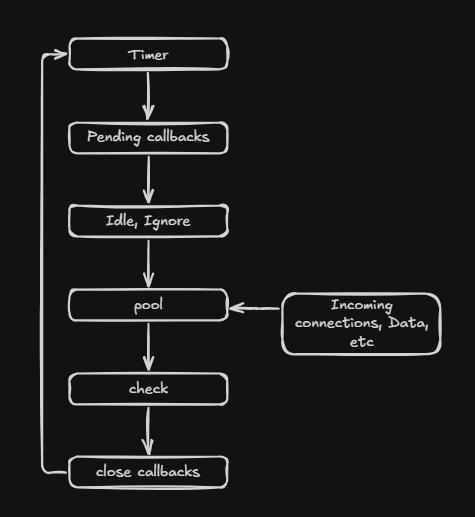
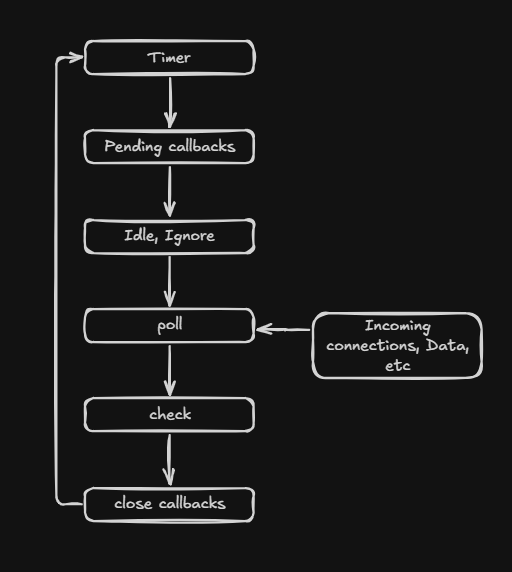
Diagram changed and examples of streams added

Changed region(s): [[0.0589, 0.0619, 0.9432, 0.9594]]

diff --git a/02_Node.js/04_Streams_and_Buffers/README.md b/02_Node.js/04_Streams_and_Buffers/README.md
@@ -1,0 +1,112 @@
+### Streams and Buffers in Node js
+
+A stream is a way to process data piece-by-piece (chunks) instead of loading everything into memory at once.
+
+```
+Without streams:
+
+const data = fs.readFileSync('bigfile.mp4'); // loads entire file into RAM 
+
+
+With streams:
+
+const stream = fs.createReadStream('bigfile.mp4'); // small chunks
+```
+
+There are 4 types of streams:
+
+1. Readable stream: used to read data
+Used as:
+fs.createReadStream() -> Reads a file chunk by chunk from disk.
+HTTP request body -> Reads incoming data sent by the client to the server.
+Process.stdin -> Reads user input entered via keyboard/terminal.
+
+Examples: 
+```
+const fs = require('fs');
+
+const readStream = fs.createReadStream('input.txt', {
+  encoding: 'utf8'
+});
+
+readStream.on('data', (chunk) => {
+  console.log('Received chunk:', chunk);
+});
+
+readStream.on('end', () => {
+  console.log('Finished reading file');
+});
+
+```
+2. Writable stream: used to write data. 
+Used as: 
+fs.createWriteStream() -> Writes data incrementally to a file.
+HTTP response -> Sends data from server to client as a stream.
+Process.stdout -> Writes output to the console.
+
+examples:
+```
+const fs = require('fs');
+const writeStream = fs.createWriteStream('output.txt');
+writeStream.write('Hello ');
+writeStream.write('Node.js Streams!');
+writeStream.end();
+```
+
+3. Duplex stream: Can read & write simultaneously. E.g TCP and web sockets.
+
+examples:
+```
+const { Duplex } = require('stream');
+const duplexStream = new Duplex({
+  read(size) {
+    this.push('Hello from read side');
+    this.push(null);
+  },
+  write(chunk, encoding, callback) {
+    console.log('Writing:', chunk.toString());
+    callback();
+  }
+});
+
+duplexStream.write('Hello from write side');
+duplexStream.pipe(process.stdout);
+```
+
+4. Transform stream: A special duplex stream that modifies data. Examples include compression and encryption.
+
+examples:
+```
+const { Transform } = require('stream');
+
+const upperCaseStream = new Transform({
+  transform(chunk, encoding, callback) {
+    this.push(chunk.toString().toUpperCase());
+    callback();
+  }
+});
+
+process.stdin
+  .pipe(upperCaseStream)
+  .pipe(process.stdout);
+```
+
+
+### Stream Piping and Backpressure: 
+
+Stream Piping: Connecting streams so output of one becomes input of another.
+
+Backpressure: When a readable stream produces data faster than a writable stream can consume it
+
+What Happens Without Backpressure:
+- Memory builds up
+- App crashes
+
+Node handles it as follows:
+1. .write() returns false
+2. Readable stream pauses
+3. Resumes on drain event
+
+Buffer: Temporary memory storage of Fixed size that Stores entire data chunk
+
+- Stream is basically flow of buffers. Stream internally uses buffers.

diff --git a/02_Node.js/03_Single_Threaded/README.md b/02_Node.js/03_Single_Threaded/README.md
@@ -1,0 +1,71 @@
+# Single Threaded architecure in node js
+
+Node.js has a single-threaded model. This means it uses a single thread to handle multiple tasks. To achieve this, Node.js uses an event-driven, non-blocking I/O model.
+
+## The Event-driven and non blocking I/O model 
+
+The core of Node.js's single-threaded architecture is the event loop. The event loop continuously cycles through a series of phases, executing callbacks and handling events. 
+
+- <b> Event Queue : </b>
+
+    Incoming requests are placed in event queue. There are multiple queues. They are conceptually grouped and known as macro task queues.
+
+- <b> Event loop :  </b>
+
+    Picks up the request from the queue and processes them.
+
+- <b> Callbacks : </b>
+
+    For each request,node js executes the associated the callback function, if the call back function involves a blocking operation like file systems, crypto, dns lookup, it delegates them to the thread pool.
+
+- <b> Thread pool : </b>
+
+    Node js uses a thread pool which is amnaged by the libuv library to handle the non blocking operations, once completed, the results are placed back into the evemt queue for event loop to process it.
+
+
+## Priority of macro task queue : 
+
+1. Timers Queue - setTimeout
+2. Pending Callbacks Queue 
+3. Poll Queue - file system callbacks, network I/O callbacks, incoming http requests
+4. Check Queue - setImmediate
+5. Close Callbacks Queue - socket close
+
+- After every macro phase, Node.js executes process.nextTick queue and Promise microtask queue
+
+### Event Loop diagram :
+![Event Loop Dig](../Diagrams/eventLoopDig.png)
+
+### Event Loop Phases :
+
+<b>a) Timer phase : </b>
+
+- Executes callbacks scheduled by `setTimerOut()` and `setInterval()`
+
+<b>b) Pending callbacks phase : </b>
+
+- Executes callbacks for certain system operations, like deferred I/O callbacks
+
+<b>c) Idle phase : </b>
+
+- useed internally by node.js
+
+<b>d) Poll phase : </b>
+
+- Retrieve and execute new I/O events.
+
+<b>e) Check phase : </b>
+
+- Executes callbacks scheduled by `setImmediate()`
+
+<b>f) Close callbacks phase : </b>
+
+- Executes callbacks associated with the closing of resources
+
+- Example :
+    -`socket.on('close')`
+
+<br>
+<br>
+ 
+![Event Loop Phases Dig](../Diagrams/eventLoopPhasesDig.png)
